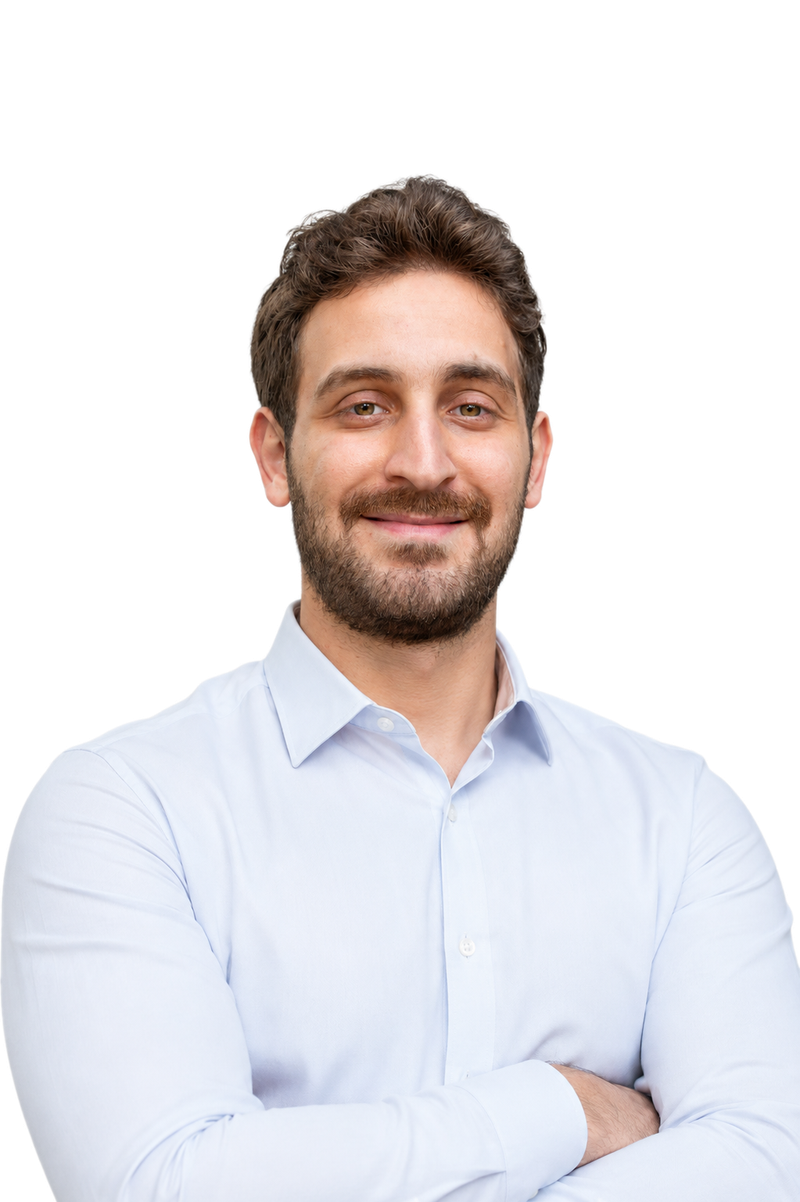
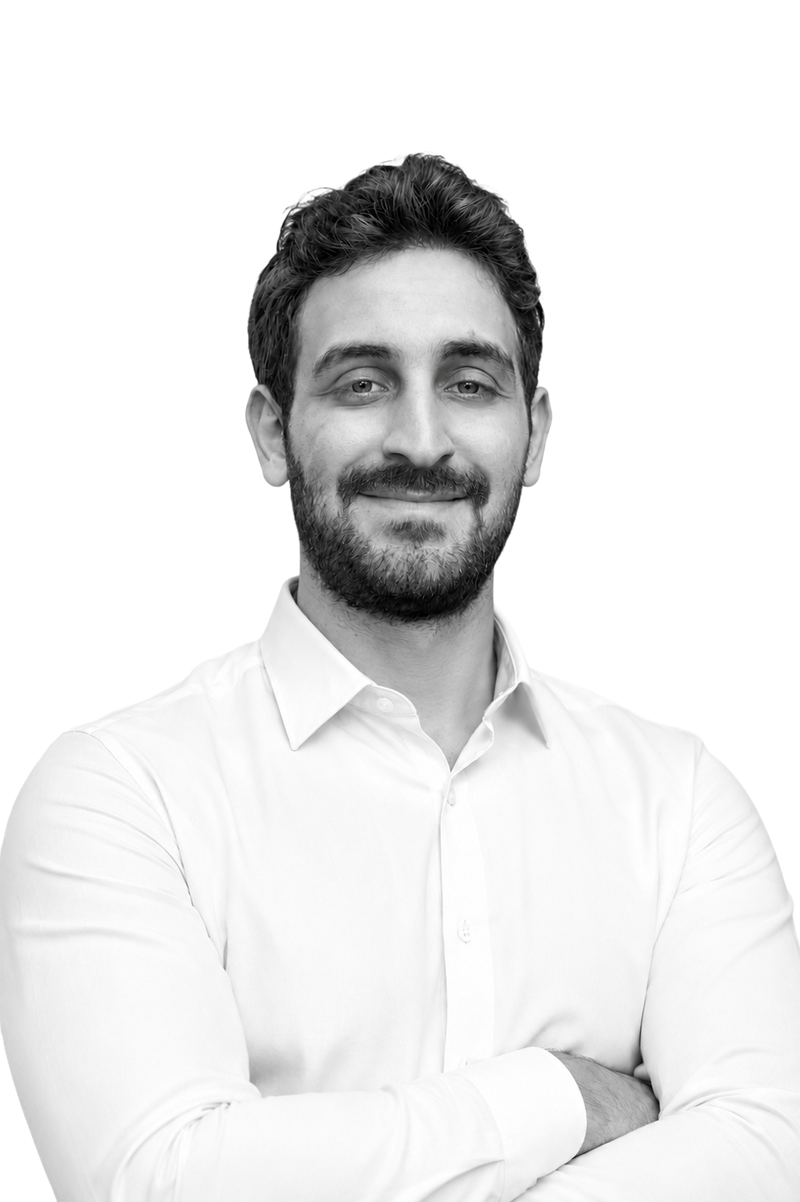
Portrait — Adobe Express clean alpha (grayscale kaynak)
Bedirhan Adobe Express ile background sildirmiş versiyon uploadladı.
ML-quality alpha, edge'ler temiz (saç, gömlek, tüm silhouette).
Bizim floodfill algoritmasından çok daha net.

- 800×1202 resize, PNG 755 KB + WebP 70 KB
- Corner alpha 0, face RGB (148,148,147) — grayscale kaynak

Dark-mode brightness/contrast filter'ı geri konuldu (44645aa'da
kaldırılmıştı). Grayscale portre koyu zemine karışabildiği için
hafif kompanse: brightness 1.10, contrast 0.94.

Alpha yaklaşımı sonunda kararlaştı — Adobe'nin çıkardığı temiz
mask + tema-uyumlu container bg + dark modda hafif brightness.

https://claude.ai/code/session_0165a9d6omfQcLmb3xZsq5Zj

diff --git a/assets/css/style.css b/assets/css/style.css
@@ -285,6 +285,18 @@ html{ scroll-behavior: smooth; }
 /* Hero with portrait */
 .hero-grid{ display: grid; grid-template-columns: 1fr 300px; gap: var(--sp-7); align-items: center; }
 .hero-portrait{ width: 100%; will-change: transform; }
+/* Portre kaynağı grayscale — dark modda subject koyu zemine karışıyor.
+   Hafif brightness ile subject'i geri çıkar, ton dengesini bozmadan. */
+@media (prefers-color-scheme: dark){
+  :root:not([data-theme="light"]) .hero-portrait img,
+  :root:not([data-theme="light"]) .about-portrait img{
+    filter: brightness(1.10) contrast(0.94);
+  }
+}
+:root[data-theme="dark"] .hero-portrait img,
+:root[data-theme="dark"] .about-portrait img{
+  filter: brightness(1.10) contrast(0.94);
+}
 @media (max-width: 720px){
   .hero-grid{ grid-template-columns: 1fr; gap: var(--sp-5); }
   .hero-portrait{ width: 200px; order: -1; }